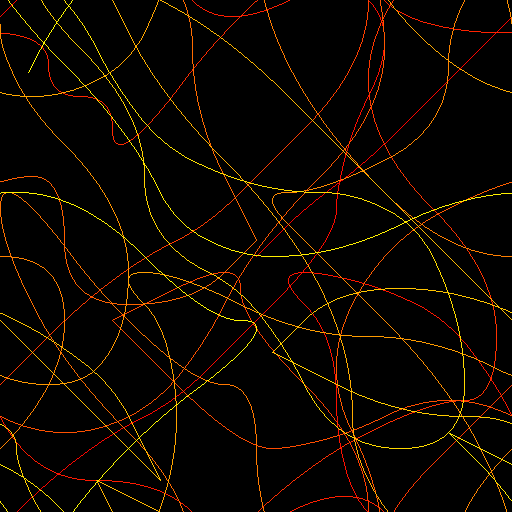
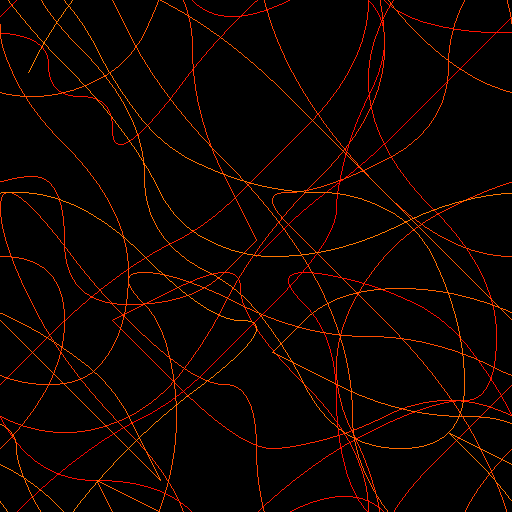
color scaling 2x per byte fix

diff --git a/drawing.h b/drawing.h
@@ -92,7 +92,7 @@ void save_farbfeld(image img, char *name) {
 
 	for(y = 0; y < RES_Y; ++y) {
 		for(x = 0; x < RES_X; ++x) {
-#define MAX (HASH_LENGTH)
+#define MAX (HASH_LENGTH*2)
 #define COLOR(S_VALUE, E_VALUE, DEFAULT) (get_pixel(img,x,y) == (channel_t)-1 ? DEFAULT : ((E_VALUE * get_pixel(img,x,y) + S_VALUE * (MAX - get_pixel(img,x,y)) + MAX/2) / MAX))
 			v = BIG_ENDIAN16(COLOR(S_R, E_R, D_R) * 257);
 			fwrite(&v, 2, 1, f);
